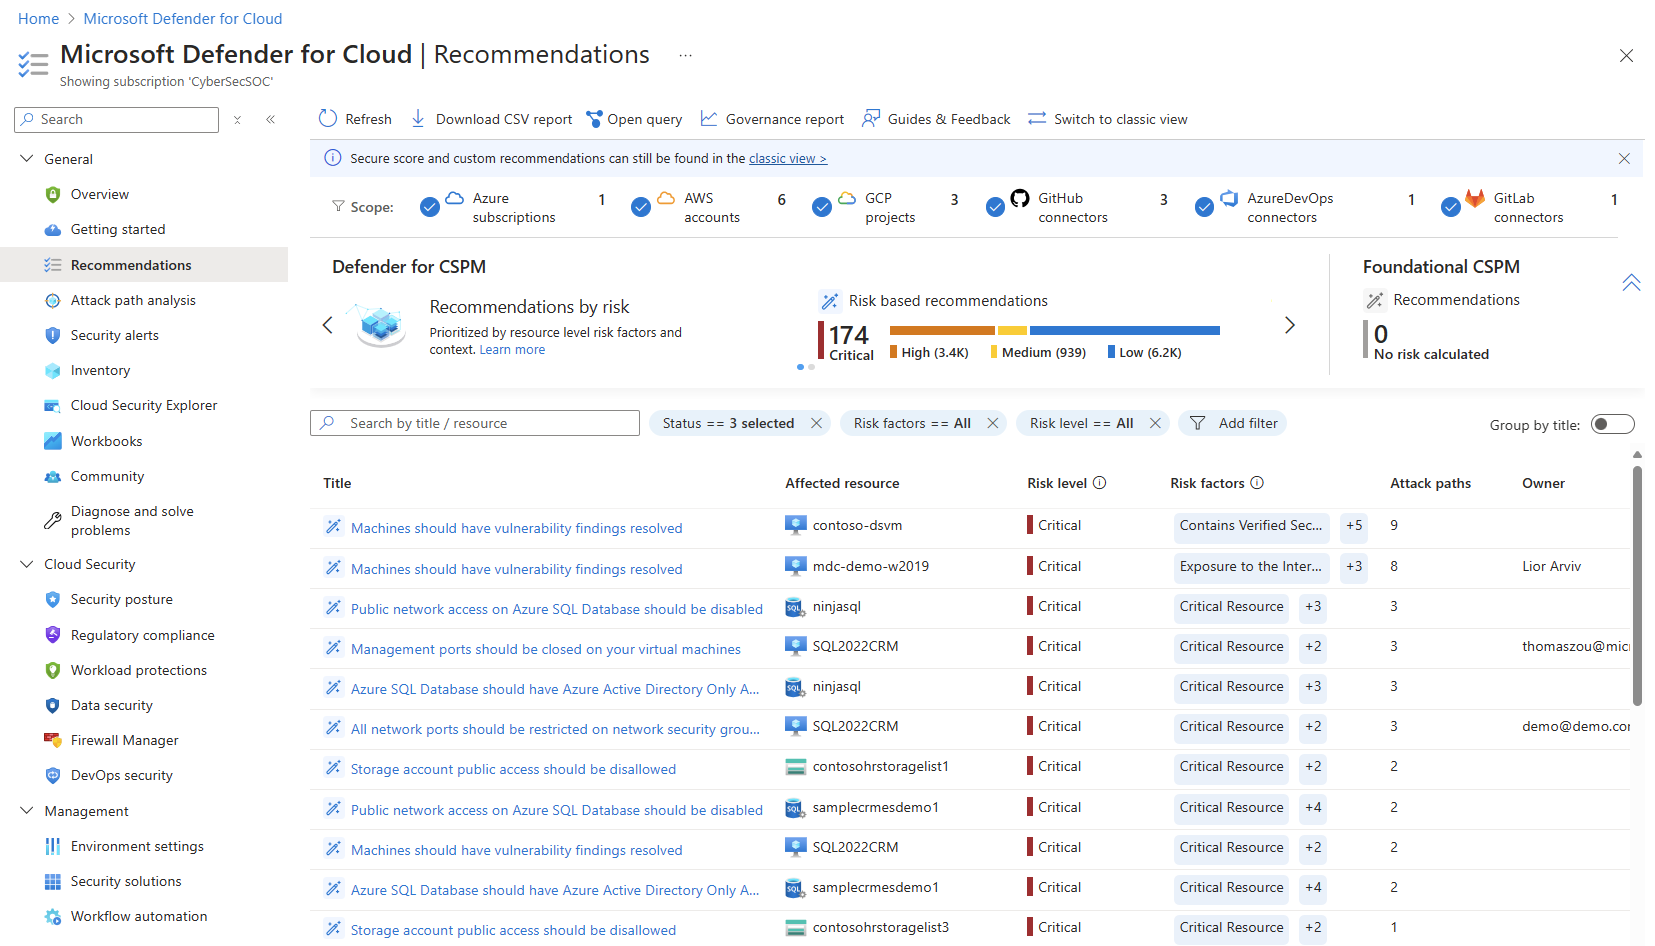
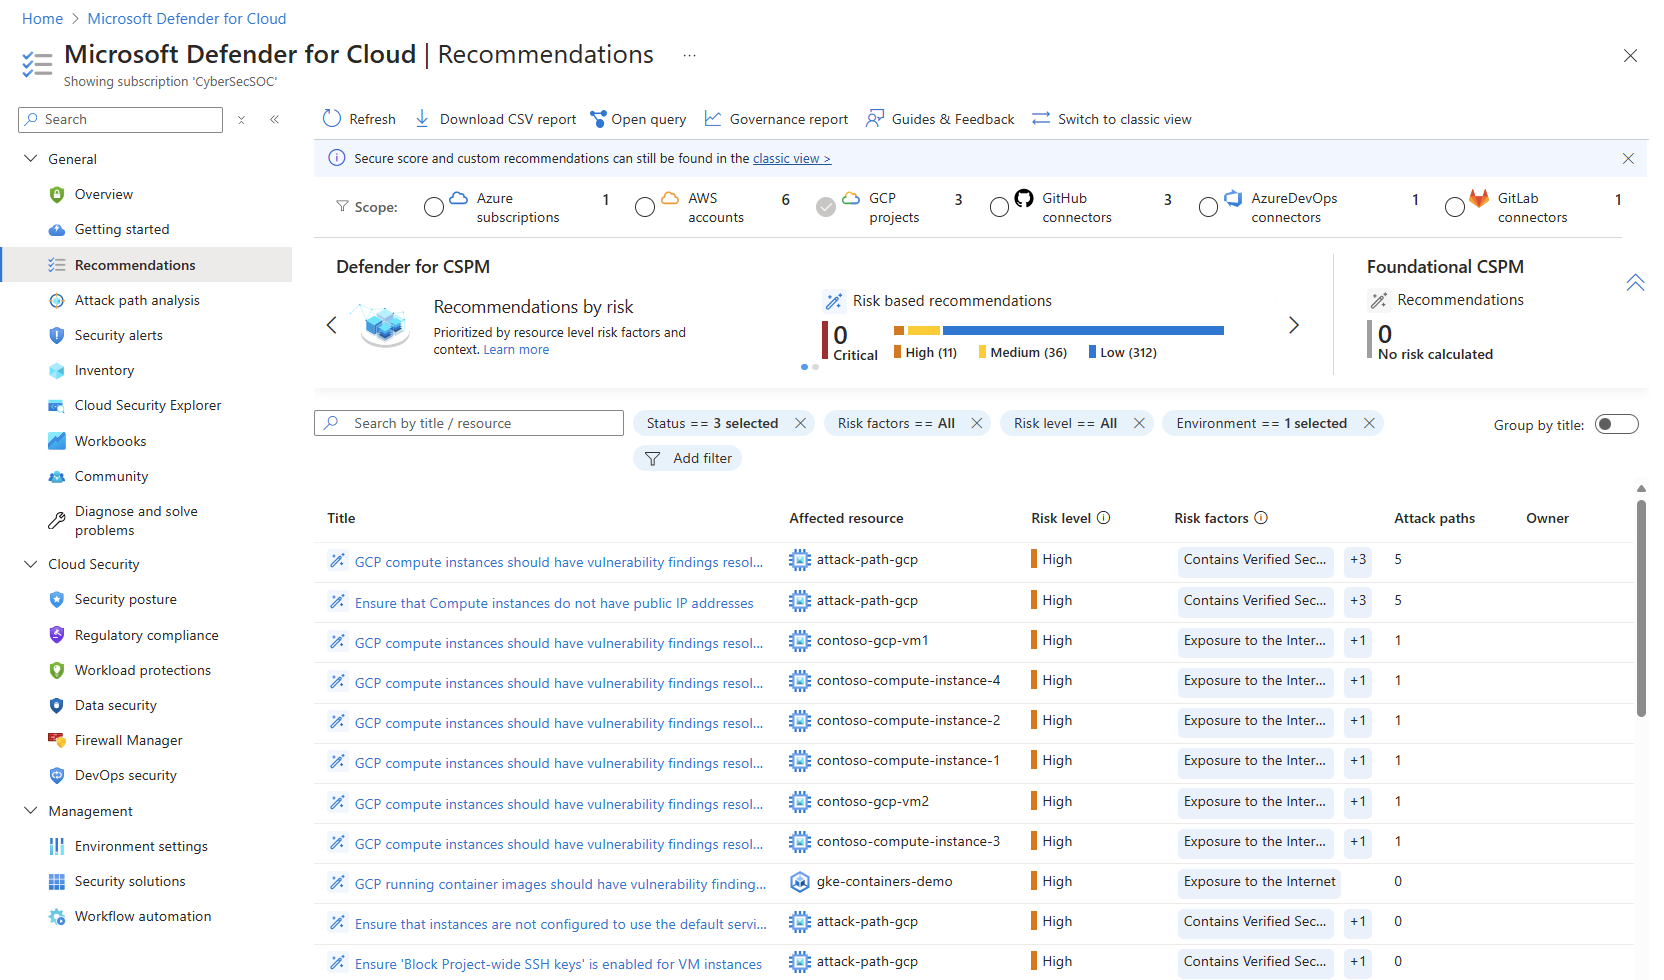
Fix to Module 10 - GCP
Replaced image and amended the text correspondingly.

diff --git a/Labs/Modules/Module-10-GCP.md b/Labs/Modules/Module-10-GCP.md
@@ -79,7 +79,7 @@ Once a vulnerable image has been pushed to the Azure Container Registry registry
  
  1. Go to **Microsoft Defender for Cloud** in the **Azure Portal**.
  2. Go to the **Recommendations** tab in Defender for Cloud.
- 3. In the upper right corner, select **GCP**. 
+ 3. In the upper taskbar, under **Scope**, select **GCP** only. 
  
 ![GCP console with Cloud Shell](../Images/8gcprecommendations.png?raw=true)
 
